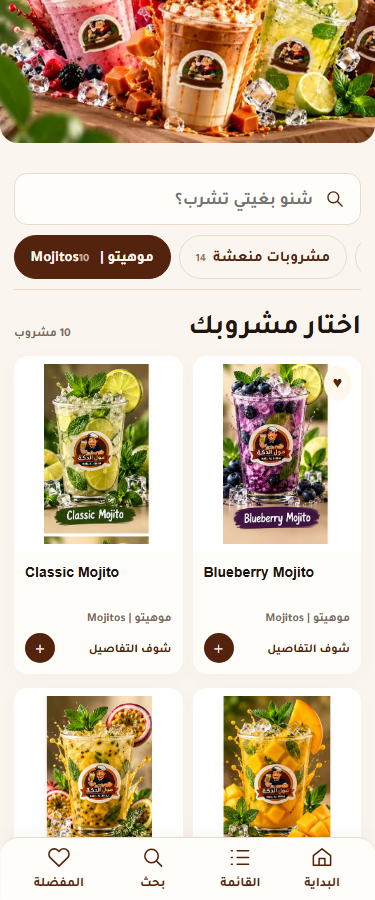
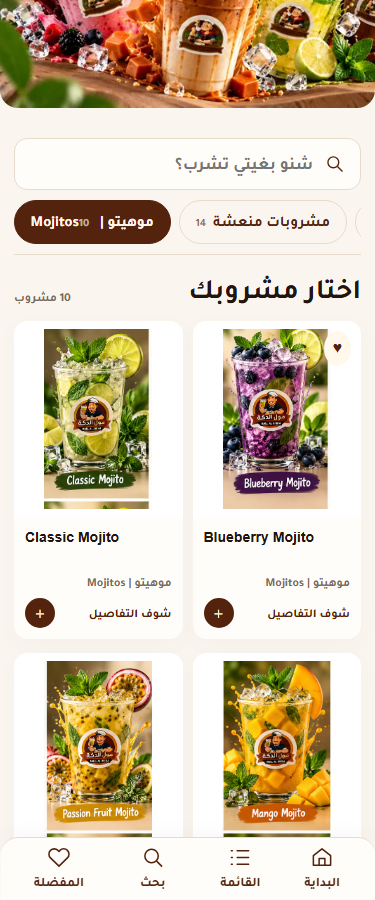
Add header social links and enable WhatsApp orders

diff --git a/index.html b/index.html
@@ -2,7 +2,7 @@
 <html lang="ar" dir="rtl">
 <head><meta charset="utf-8"><meta name="viewport" content="width=device-width,initial-scale=1,viewport-fit=cover"><meta name="theme-color" content="#54230d"><meta name="description" content="اكتشف قائمة مشروبات مول الدكة — قهوة، ماتشا ومشروبات منعشة."><title>مول الدكة | MALL AL DIKKA</title><link rel="icon" href="assets/generated/logo.webp"><link rel="preload" href="assets/fonts/Tajawal-Regular.ttf" as="font" type="font/ttf" crossorigin><link rel="preload" as="image" href="assets/generated/hero-flavors-mobile.webp" media="(max-width:600px)" fetchpriority="high"><link rel="preload" as="image" href="assets/generated/hero-flavors-desktop.webp" media="(min-width:601px)" fetchpriority="high"><link rel="stylesheet" href="css/style.css"><script defer src="data/menu-data.js"></script><script defer src="js/app.js"></script></head>
 <body>
-<header class="header"><a class="brand" href="#top" aria-label="مول الدكة، البداية"><img src="assets/generated/logo.webp" width="64" height="64" alt="شعار مول الدكة الرسمي"><span><strong>مول الدكة</strong><small dir="ltr">MALL AL DIKKA</small></span></a><span class="header-note">قهوة تجمعنا<span> DIGITAL MENU</span></span></header>
+<header class="header"><a class="brand" href="#top" aria-label="مول الدكة، البداية"><img src="assets/generated/logo.webp" width="64" height="64" alt="شعار مول الدكة الرسمي"><span><strong>مول الدكة</strong><small dir="ltr">MALL AL DIKKA</small></span></a><span class="header-note">قهوة تجمعنا<span> DIGITAL MENU</span></span><div class="social-links" aria-label="Social media"><a id="facebook-link" href="https://www.facebook.com/profile.php?id=61595395171864" target="_blank" rel="noopener noreferrer" aria-label="Facebook"><svg viewBox="0 0 24 24" aria-hidden="true"><path d="M14 21v-8h3l.5-4H14V7c0-1 .4-1.5 1.5-1.5H18V2h-3c-3.5 0-5 2-5 5v2H7v4h3v8"/></svg><span lang="en" dir="ltr">Facebook</span></a><a id="instagram-link" href="https://www.instagram.com/mouldikka/?hl=fr" target="_blank" rel="noopener noreferrer" aria-label="Instagram"><svg viewBox="0 0 24 24" aria-hidden="true"><rect x="3" y="3" width="18" height="18" rx="5"/><circle cx="12" cy="12" r="4"/><circle cx="17.5" cy="6.5" r=".7"/></svg><span lang="en" dir="ltr">Instagram</span></a></div></header>
 <main id="top"><section class="welcome welcome-flavors"><div class="welcome-copy"><span class="eyebrow">مرحبا بيك فمول الدكة</span><h1>مزاجك اليوم،<br><em>شنو يليق ليه؟</em></h1><p>قهوة، ماتشا ولا شي حاجة منعشة؟<br>اختار اللي على خاطرك.</p><a class="explore" href="#menu">اكتشف القائمة <span aria-hidden="true">↙</span></a></div></section>
 <div class="intro-line"><span>من أول رشفة</span><span class="line"></span><span>قهوتك، على ذوقك</span></div>
 <section id="menu" aria-labelledby="menu-title"><div class="toolbar"><div class="search-wrap"><svg aria-hidden="true" viewBox="0 0 24 24"><circle cx="10" cy="10" r="6.5"/><path d="m15 15 6 6"/></svg><input id="search" type="search" placeholder="شنو بغيتي تشرب؟" aria-label="بحث عن مشروب" autocomplete="off"><button id="clear" class="clear" hidden aria-label="مسح البحث">×</button></div><nav id="categories" class="categories" aria-label="أقسام القائمة"></nav></div>

diff --git a/css/style.css b/css/style.css
@@ -58,3 +58,14 @@ footer p{font-size:15px}.empty p{font-size:17px}
 .welcome-flavors .explore{font-size:19px}.welcome-flavors h1{font-size:clamp(38px,4.5vw,66px)}
 @media(max-width:850px) and (min-width:601px){.welcome-flavors h1{font-size:39px}.welcome-flavors p{font-size:18px}.welcome-flavors .eyebrow{font-size:17px}}
 @media(max-width:600px){.brand strong{font-size:26px}.header-note{font-size:12px}.chip{font-size:15px}.section-heading .eyebrow{font-size:12px}.section-heading h2{font-size:28px}.section-heading #count{font-size:12px}.card-category{font-size:12px}.card-action{font-size:12px}.welcome-flavors .eyebrow{font-size:16px}.welcome-flavors h1{font-size:clamp(35px,10.5vw,47px)}.welcome-flavors p{font-size:17px}.welcome-flavors .explore{font-size:16px}.empty p{font-size:16px}}
+
+.social-links{display:flex;justify-content:center;flex-wrap:wrap;gap:12px;margin-top:22px}
+.social-links a,.social-links button{display:inline-flex;align-items:center;justify-content:center;gap:9px;min-height:48px;padding:12px 20px;border:1px solid var(--line);border-radius:28px;background:#fffdf9;color:var(--brown);font-weight:700;font-size:15px}
+.social-links svg{width:20px;height:20px;fill:none;stroke:currentColor;stroke-width:1.8;stroke-linecap:round;stroke-linejoin:round}
+.social-links button:disabled{cursor:default;opacity:.65}
+.social-links a:hover{background:var(--brown);color:var(--cream)}
+
+/* Header social controls remain compact on mobile. */
+.header .social-links{margin:0;flex-wrap:nowrap;gap:8px}
+.header .social-links a,.header .social-links button{padding:10px 14px;font-size:13px;min-height:44px}
+@media(max-width:600px){.header{flex-wrap:wrap;gap:10px}.header .header-note{display:none}.header .social-links{gap:6px}.header .social-links a,.header .social-links button{width:44px;padding:10px}.header .social-links span{display:none}}

diff --git a/js/app.js b/js/app.js
@@ -1,5 +1,5 @@
 /* Replace this value with the café's international number, digits only. */
-const WHATSAPP_NUMBER = "REPLACE_WITH_CLIENT_NUMBER";
+const WHATSAPP_NUMBER = "212727420053";
 const data = window.MENU_DATA;
 const categories = window.MENU_CATEGORIES;
 const $ = id => document.getElementById(id);
